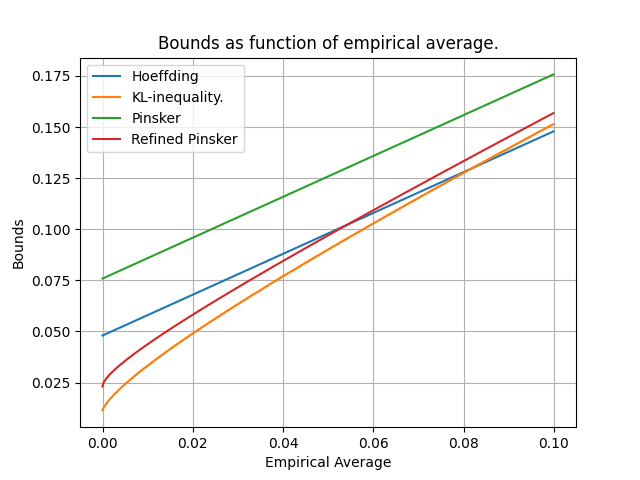
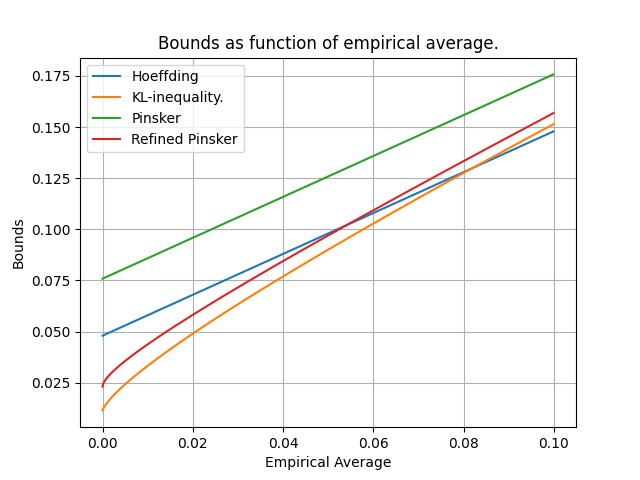
Updated bound comparison plots

Changed region(s): [[0.125, 0.6875, 0.9062, 0.7188]]

diff --git a/Week1/plotting_bounds.py b/Week1/plotting_bounds.py
@@ -3,12 +3,13 @@ import pdb
 import numpy as np
 import matplotlib.pyplot as plt
 
-def optimal_kl(bias, bound, epsilon):
+def optimal_kl(bias, bound, epsilon, lower):
     '''
     Written by Anders Jess Pedersen, translated from MATLAB implementation by
-    Yevgeny Seldin. Calculates the maximal bias `result` of a Bernoulli variable
-    such that its KL-divergence from a Bernoulli variable with bias `bias` is bounded by
-    `bound`, i.e. `result = argmax_y Dkl(bias||result) < bound`.
+    Yevgeny Seldin. Calculates the maximal bias `result` via binary search of 
+    a Bernoulli variable such that its KL-divergence from a Bernoulli variable
+    with bias `bias` is bounded by `bound`, i.e.
+    `result = argmax_y Dkl(bias||result) < bound`.
 
     Parameters: 
         bias (float): Bias of the Bernoulli variable.
@@ -25,7 +26,7 @@ def optimal_kl(bias, bound, epsilon):
         return bias
 
     result = (1 + bias) / 2
-    step = (1 + bias) / 4
+    step = (1 - bias) / 4
 
     if (bias > 0.0):
         p0 = bias
@@ -33,16 +34,18 @@ def optimal_kl(bias, bound, epsilon):
         p0 = 1.0
     
     while (step > epsilon):
-        result = min(1.0-epsilon, result)
-        tmp = (1 - bias) / (1 - result)
-        below_bound = (
-            (bias * math.log(p0 / result) + (1.0 - bias) * math.log(tmp)) < bound
-        )
-
-        if below_bound:
-            result += step
+        result = min(1.0 - epsilon, result)
+        kl = (bias * math.log(p0 / result) + (1.0 - bias) * math.log((1.0 - bias) / (1.0 - result)))
+        if not lower:
+            if kl < bound:
+                result += step
+            else:
+                result -= step
         else:
-            result -= step
+            if kl > bound:
+                result -= step
+            else:
+                result += step
         step = step / 2
     return result
 
@@ -56,10 +59,7 @@ def hoeffding_bound(phats, delta, n, lower):
 
 def kl_bound(phats, delta, n, lower, epsilon):
     bound_for_kl = math.log((n + 1) / delta) / n
-    if not lower:
-        bounds = np.array([optimal_kl(phat, bound_for_kl, epsilon) for phat in phats])
-    else:
-        bounds = np.array([optimal_kl(phat, bound_for_kl, epsilon) for phat in phats]) # DO OTHER CALCULATION HERE
+    bounds = np.array([optimal_kl(phat, bound_for_kl, epsilon, lower) for phat in phats])
     return zip(phats, bounds)
 
 
@@ -72,16 +72,16 @@ def refined_pinsker_bound(phats, delta, n):
         + (2 * math.log((n + 1) / delta)) / n
     return zip(phats, bounds)
 
-def remove_too_large(zipped_data):
-    return [(x, y) for (x, y) in zipped_data if y < 1.0]
+def remove_out_of_bounds(zipped_data):
+    return [(x, y) for (x, y) in zipped_data if y < 1.0 and y > 0.0]
 
 def make_plot(n = 1000, delta = 0.01, interval=[0.0, 1.0], lower=False, epsilon=2**(-52)):
     step_size = interval[1] / 1000
     phats = np.array([interval[0]+step_size*x for x in range(1000)])
-    hoef_phats, hoef_bounds = zip(*remove_too_large(hoeffding_bound(phats, delta, n, lower)))
-    kl_phats, kl_bounds = zip(*remove_too_large(kl_bound(phats, delta, n, lower, epsilon)))
-    pin_phats, pin_bound = zip(*remove_too_large(pinsker_bound(phats, delta, n)))
-    ref_pin_phats, ref_pin_bound = zip(*remove_too_large(refined_pinsker_bound(phats, delta, n)))
+    hoef_phats, hoef_bounds = zip(*remove_out_of_bounds(hoeffding_bound(phats, delta, n, lower)))
+    kl_phats, kl_bounds = zip(*remove_out_of_bounds(kl_bound(phats, delta, n, lower, epsilon)))
+    pin_phats, pin_bound = zip(*remove_out_of_bounds(pinsker_bound(phats, delta, n)))
+    ref_pin_phats, ref_pin_bound = zip(*remove_out_of_bounds(refined_pinsker_bound(phats, delta, n)))
 
     _, ax = plt.subplots()
     ax.plot(hoef_phats, hoef_bounds, label='Hoeffding')
